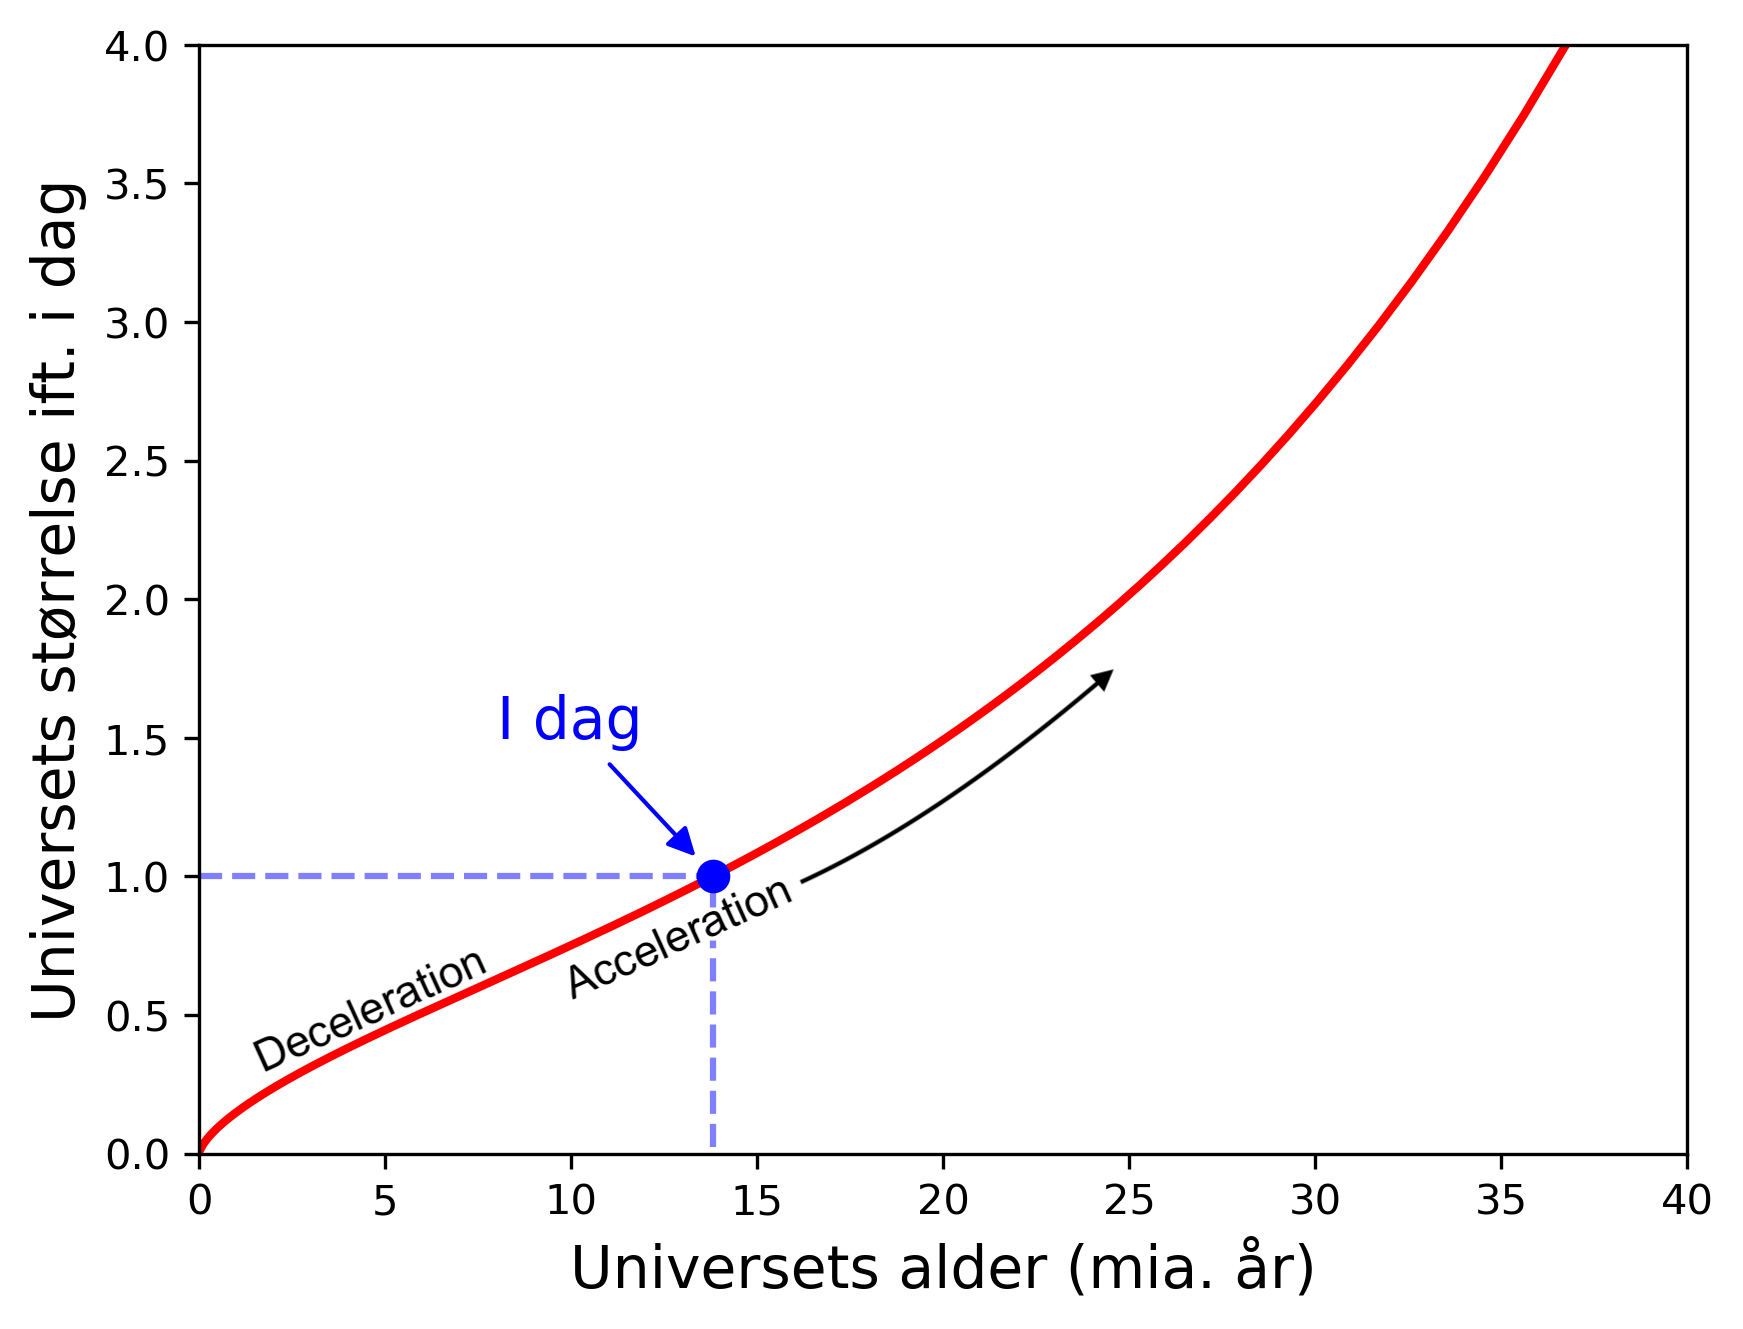
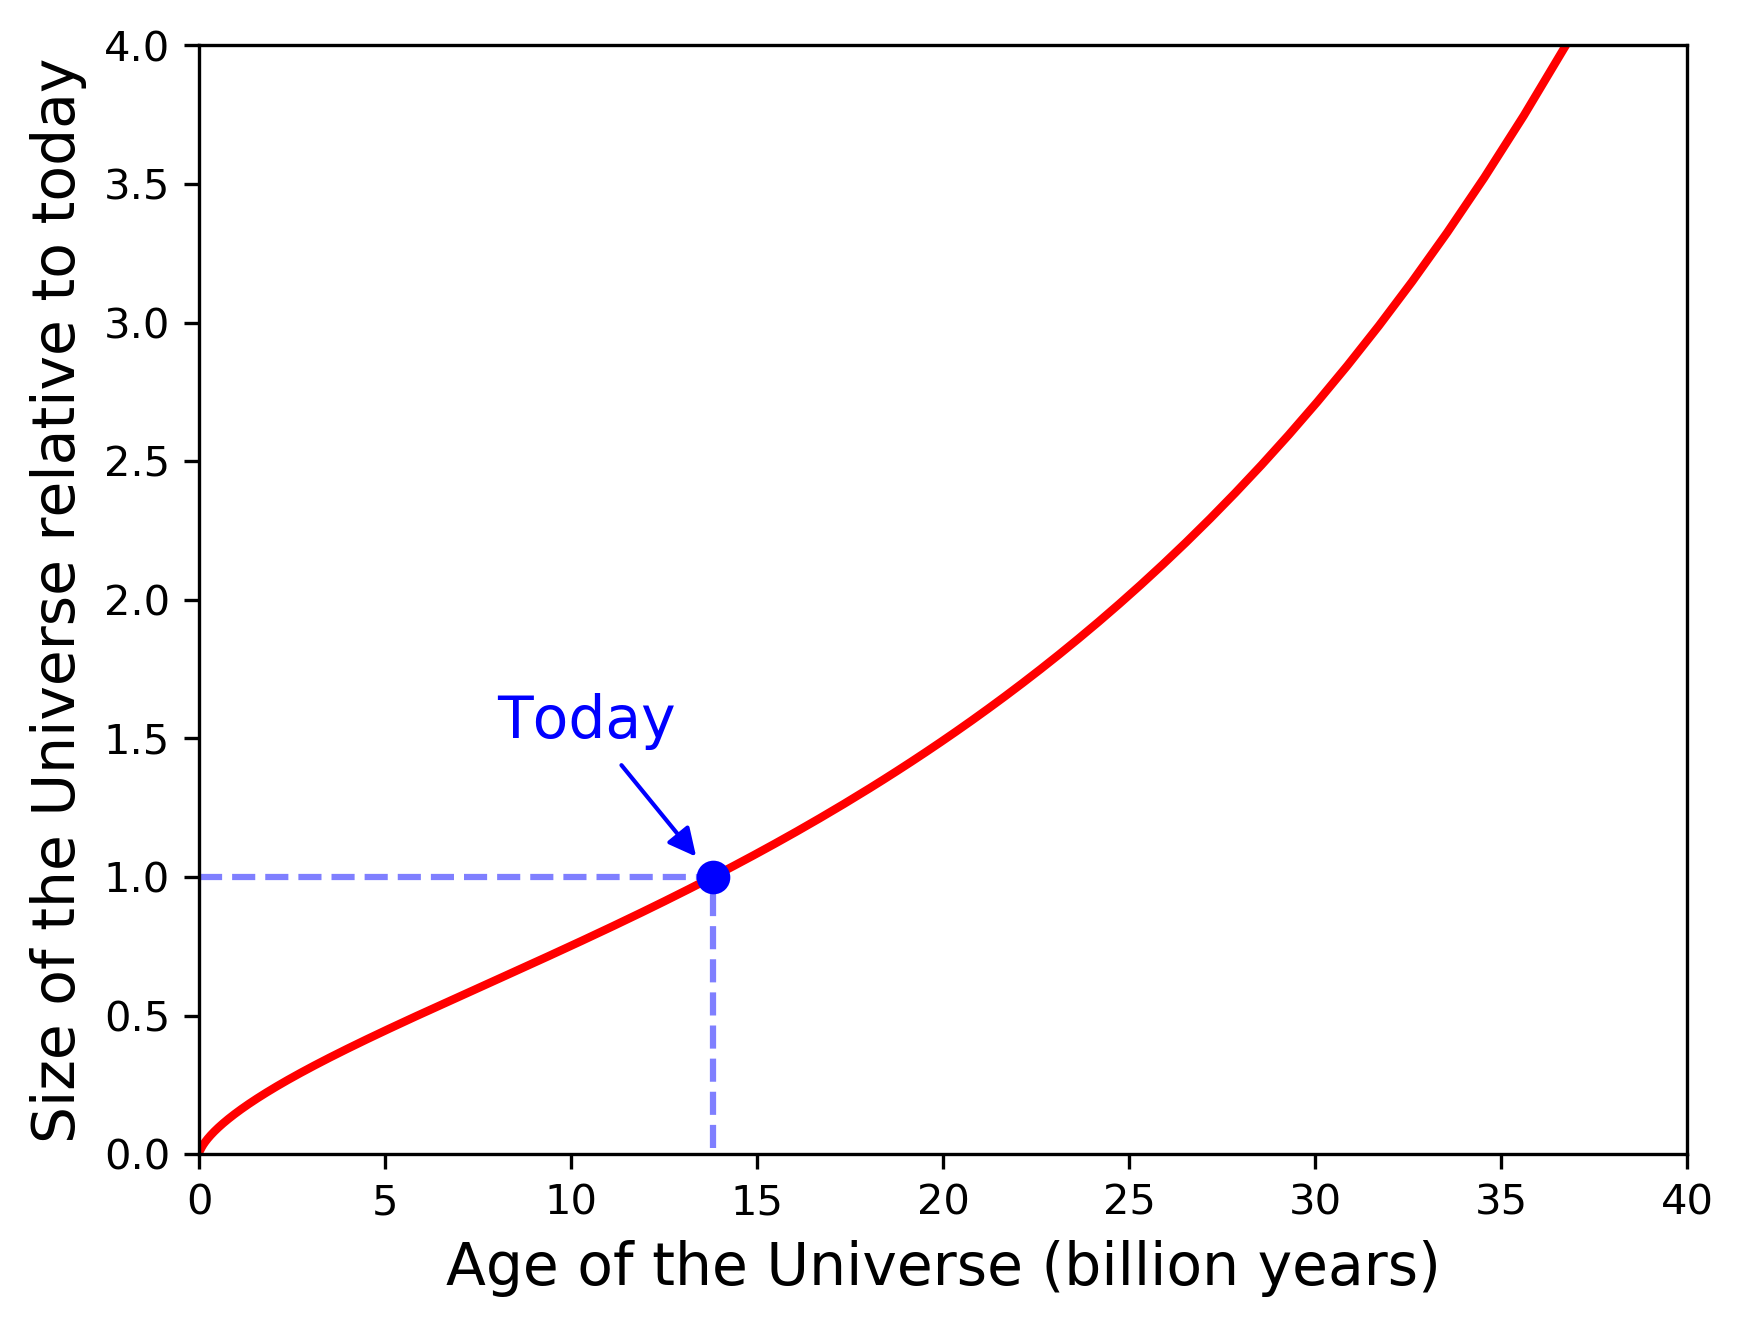
supernova

diff --git a/encyclo/supernova_dk.html b/encyclo/supernova_dk.html
@@ -486,9 +486,9 @@
                                     </div>
                                     <div class="col-md-5">
                                         <div>
-                                            <div class="ol-hover hover-1"><img src="../pics/encyclo/universe_expansion.png" alt="image hover"/>
+                                            <div class="ol-hover hover-1"><img src="../pics/encyclo/universe_expansion_dk.png" alt="image hover"/>
                                                 <div class="icons">
-                                                    <a href="../pics/encyclo/universe_expansion.png" class="ol-lightbox"><i class="oli oli-search theme-color" style="color:var(--lilla); border-color:var(--lilla); background-color:var(--gul)"></i></a>
+                                                    <a href="../pics/encyclo/universe_expansion_dk.png" class="ol-lightbox"><i class="oli oli-search theme-color" style="color:var(--lilla); border-color:var(--lilla); background-color:var(--gul)"></i></a>
                                                 </div>
                                             </div>
                                             <div>
